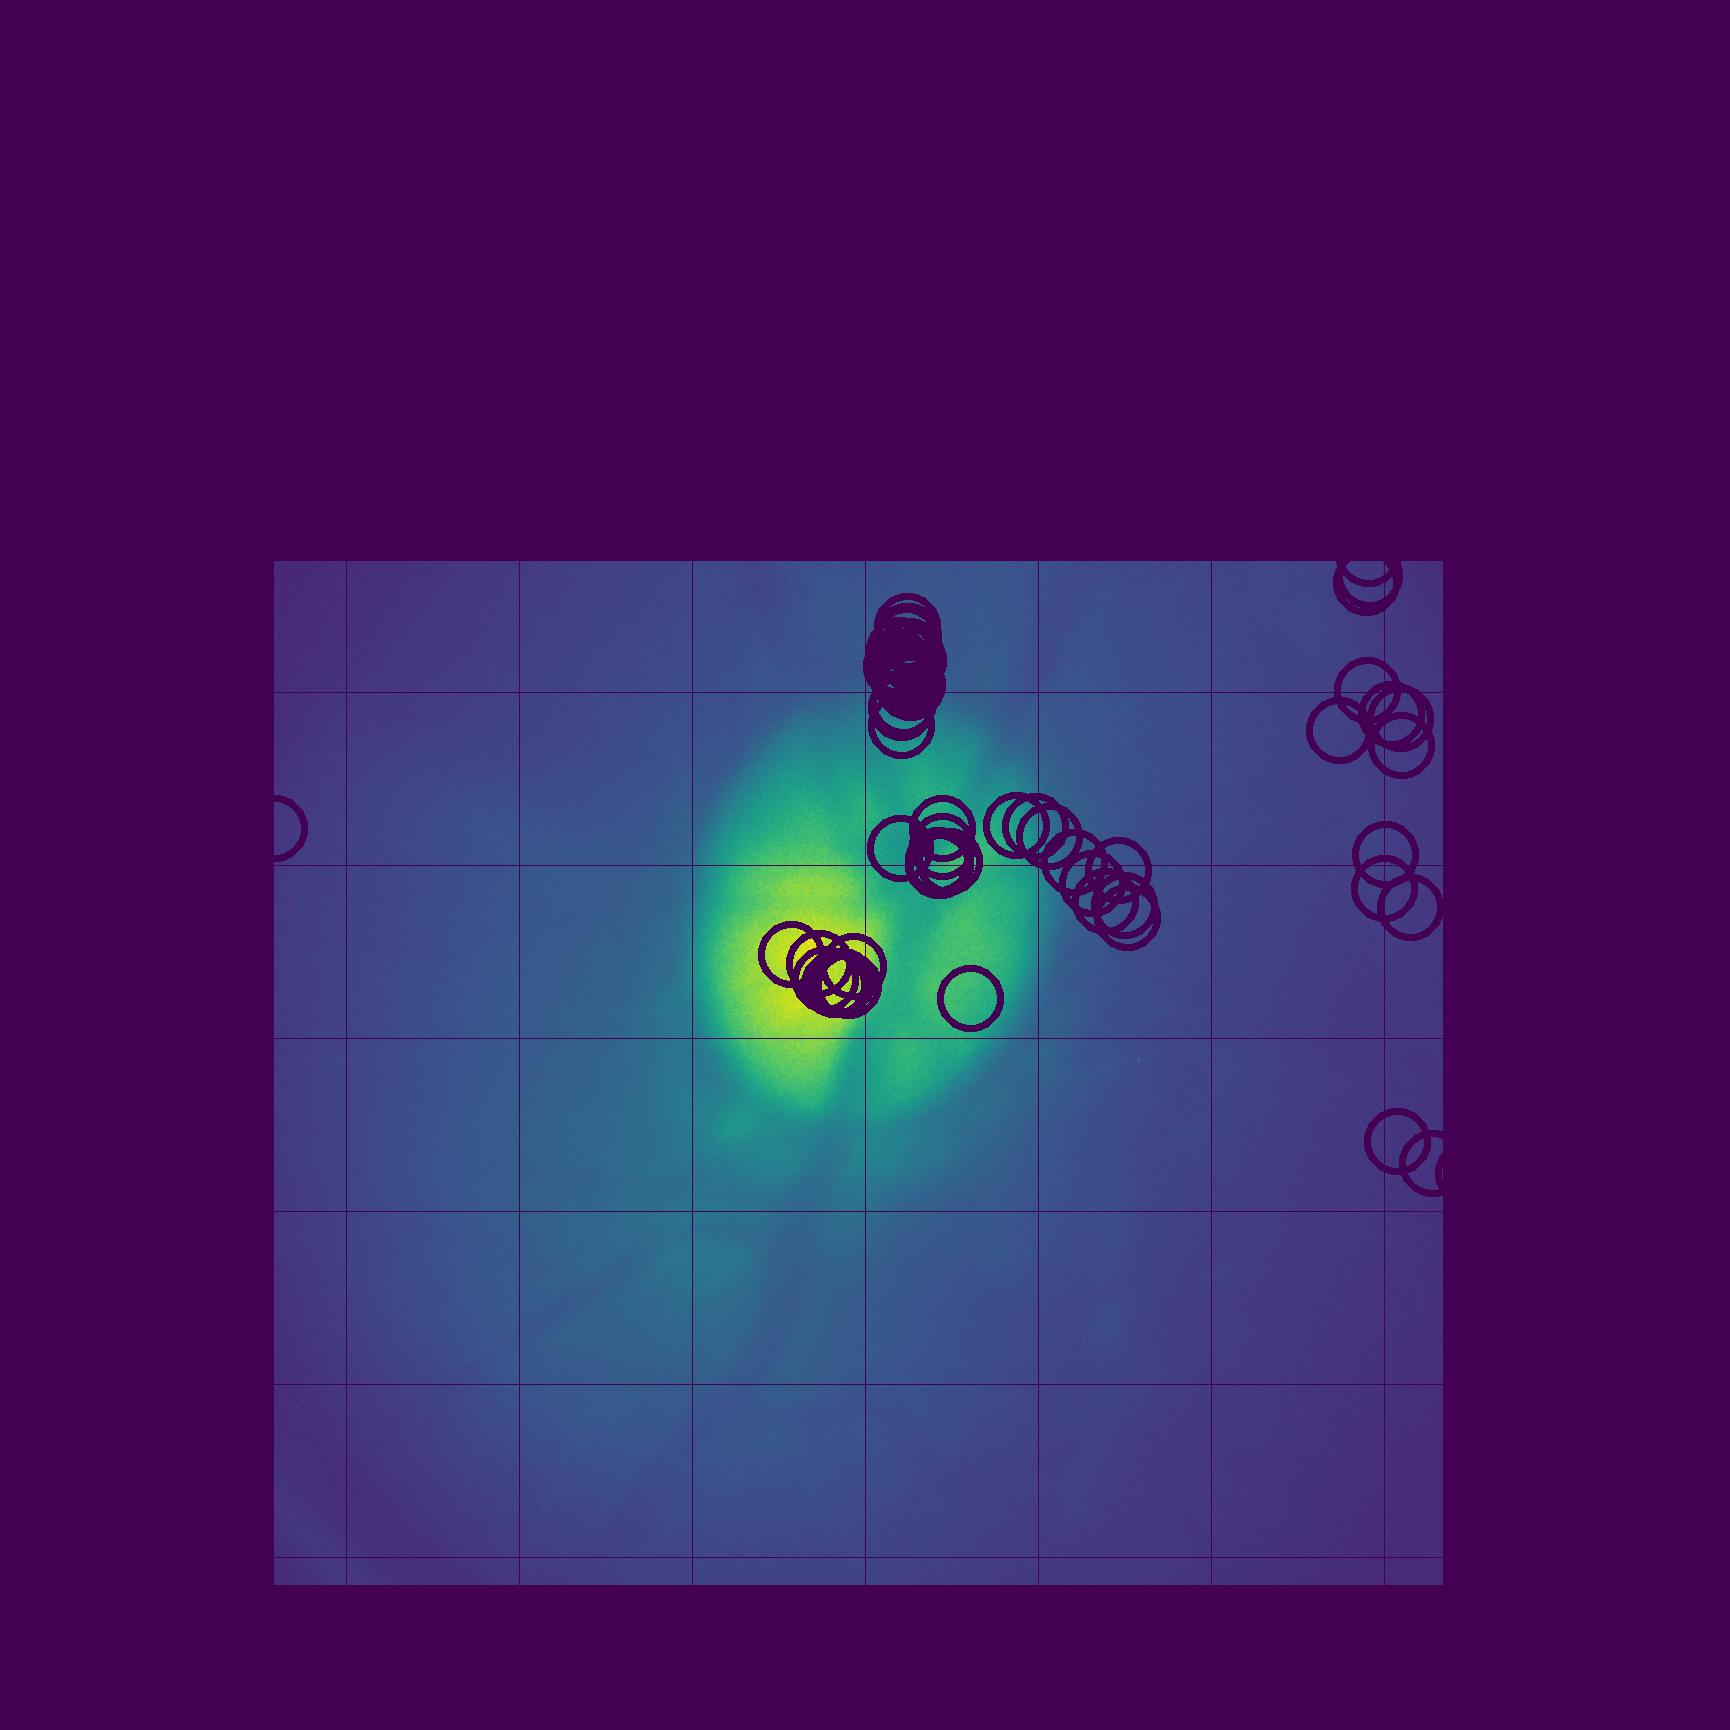
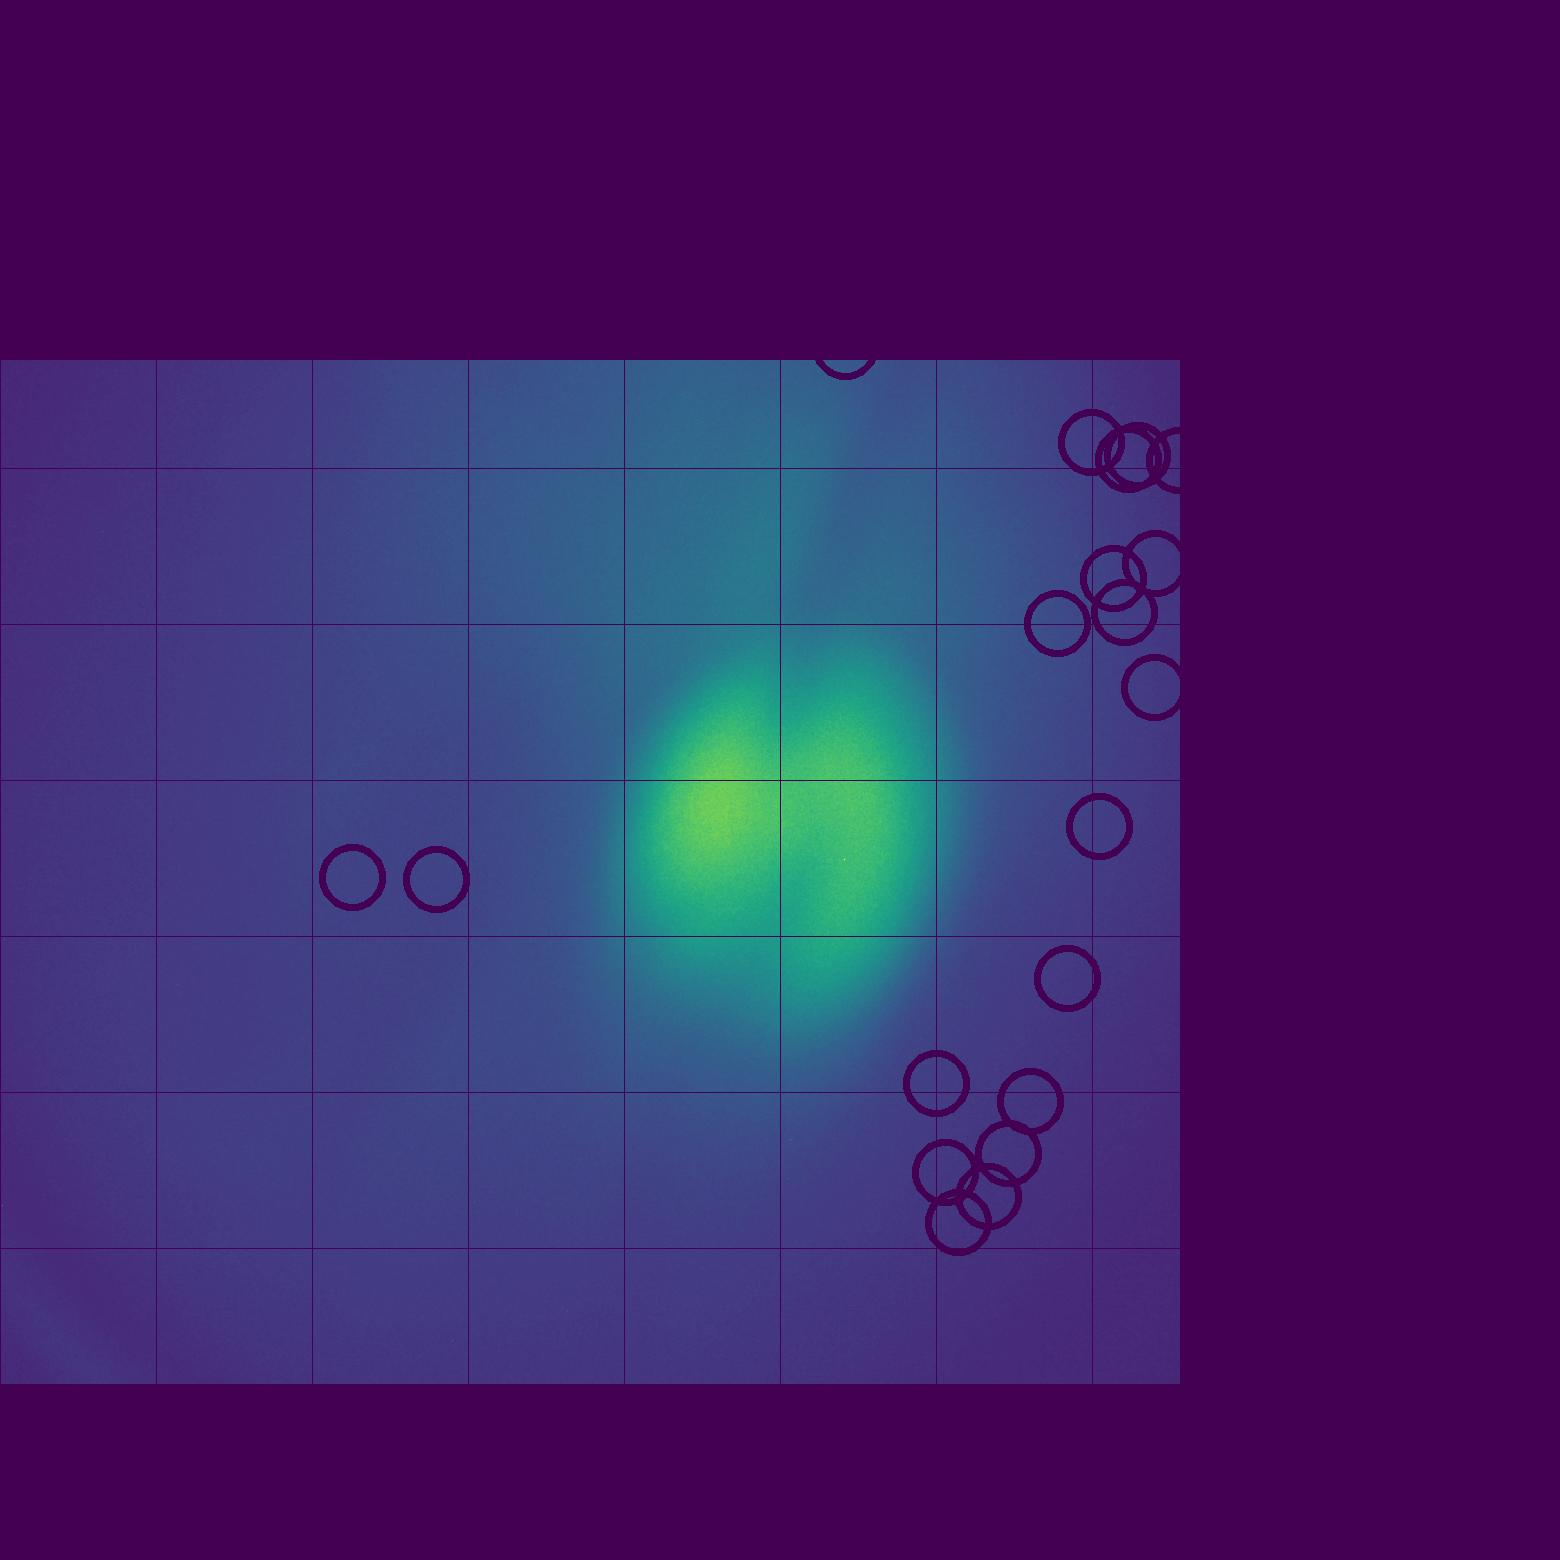
No more errors, old and new plots align the same way. Cool!

diff --git a/main.py b/main.py
@@ -2,17 +2,11 @@ from processImages import *
 
 # collectionDir = getCollectionDirectory()
 
-# Old data:
-# collectionDir = r"./tests/TestImages/miniTestSampleOldData"
-
-# More old data:
-# collectionDir = r"./tests/TestImages/rightEyeSampleOldData"
-
 # New data:
-#collectionDir = r"./tests/TestImages/miniTestSampleNewData"
+# collectionDir = r"./tests/TestImages/miniTestSampleNewData"
 
 # Backup USB on Mac OS:
-collectionDir = r"/Volumes/DATA BACKUP/Baseline3/Bresil 1511184/20210316-100153-bresil-od-onh-rlp6"
+# collectionDir = r"/Volumes/DATA BACKUP/Baseline3/Bresil 1511184/20210316-100153-bresil-od-onh-rlp6"
 
 # More new data that looks half decent...:
 # collectionDir = r"E:\Baseline3\Kenya\20210316-144549-kenya-os-onh-rlp6-20210525T141349Z-001\20210316-144549-kenya-os-onh-rlp6"
@@ -24,7 +18,7 @@ collectionDir = r"/Volumes/DATA BACKUP/Baseline3/Bresil 1511184/20210316-100153-
 # collectionDir = r"C:\Users\elm77\OneDrive\Documents\ULaval\2021_2_Ete\CERVO\Projet\code\sampleFromBaseline3"
 
 # 521 files:
-# collectionDir = r"C:\Users\elm77\OneDrive\Documents\ULaval\2021_2_Ete\CERVO\Projet\code\20210316-144549-kenya-os-onh-rlp6"
+collectionDir = r"C:\Users\elm77\OneDrive\Documents\ULaval\2021_2_Ete\CERVO\Projet\code\20210316-144549-kenya-os-onh-rlp6"
 
 # Broken test dir:
 # collectionDir = r"C:\Users\elm77\OneDrive\Documents\ULaval\2021_2_Ete\CERVO\Projet\code\brokenTest"
@@ -34,18 +28,7 @@ collectionDir = r"/Volumes/DATA BACKUP/Baseline3/Bresil 1511184/20210316-100153-
 leftEye = False
 newImages = True
 
-# To eventually implement with a tkinter interface.
-# while True:
-#     leftOrRightEye = input("Left or right eye?[L/R]")
-#     if leftOrRightEye == "L":
-#         leftEye = True
-#         break
-#     elif leftOrRightEye == "R":
-#         break
-#     else:
-#         print("The input is invalid.")
-
-grayImage = loadImages(collectionDir, leftEye=leftEye, newImages = newImages)
+grayImage = loadImages(collectionDir, leftEye=leftEye, newImages=newImages)
 # dataDictionary = seperateImages(grayImage, collectionDir)
 dataDictionary = seperateNewImages(grayImage, collectionDir)
 dataDictionary = removeBadImages(dataDictionary)

diff --git a/processImages.py b/processImages.py
@@ -337,8 +337,8 @@ def removeImagesFromIndex(dataDictionary, indexes):
 
 def cleanShiftParameters(shiftParameters, indexesToRemove):
     xShift = shiftParameters[0]
-    yShift = shiftParameters[1]
     xShift = np.delete(xShift, indexesToRemove)
+    yShift = shiftParameters[1]
     yShift = np.delete(yShift, indexesToRemove)
     return xShift, yShift
 
@@ -366,7 +366,7 @@ def oldPlotResult(Image, shiftParameters, gridParameters, rosaRadius=30) -> None
     xRosa = shiftParameters[0]
     yRosa = shiftParameters[1]
 
-    for j in range(Image.shape[0]):
+    for j in range(xRosa.shape[0]):
         centerCoordinates = (int(xRosa[j]), int(yRosa[j]))
         color = (0, 255, 0)
         thickness = 5
@@ -414,7 +414,7 @@ def drawRosaCircles(image, shiftParameters, rosaRadius=30, thickness=5, color=(0
     #print(image3D)
     xRosa = shiftParameters[0]
     yRosa = shiftParameters[1]
-    for j in range(image.shape[0]):
+    for j in range(xRosa.shape[0]):
         centerCoordinates = (int(xRosa[j]), int(yRosa[j]))
         #cv2.circle(image[0,:,:], centerCoordinates, rosaRadius, color, thickness)
         cv2.circle(image3D, centerCoordinates, rosaRadius, color, thickness)
@@ -429,10 +429,8 @@ def prepareResultImage(image3D, gridParameters):
 
     left = np.max([xCenterGrid - (length*5), 0])
     up = np.max([yCenterGrid - (length*5), 0])
-    #right = np.min([(5*length), (image.shape[1] - xCenterGrid)]) + xCenterGrid
-    #down = right = np.min([(5*length), (image.shape[2] - yCenterGrid)]) + yCenterGrid
-    right = np.min([(5*length), (image3D.shape[1] - xCenterGrid)]) + xCenterGrid
-    down = right = np.min([(5*length), (image3D.shape[0] - yCenterGrid)]) + yCenterGrid
+    right = np.min([(5*length), (image3D.shape[0] - xCenterGrid)]) + xCenterGrid
+    down = right = np.min([(5*length), (image3D.shape[1] - yCenterGrid)]) + yCenterGrid
 
     temp = image3D[up:down, left:right,:]
     xNewCenter = xCenterGrid - left
